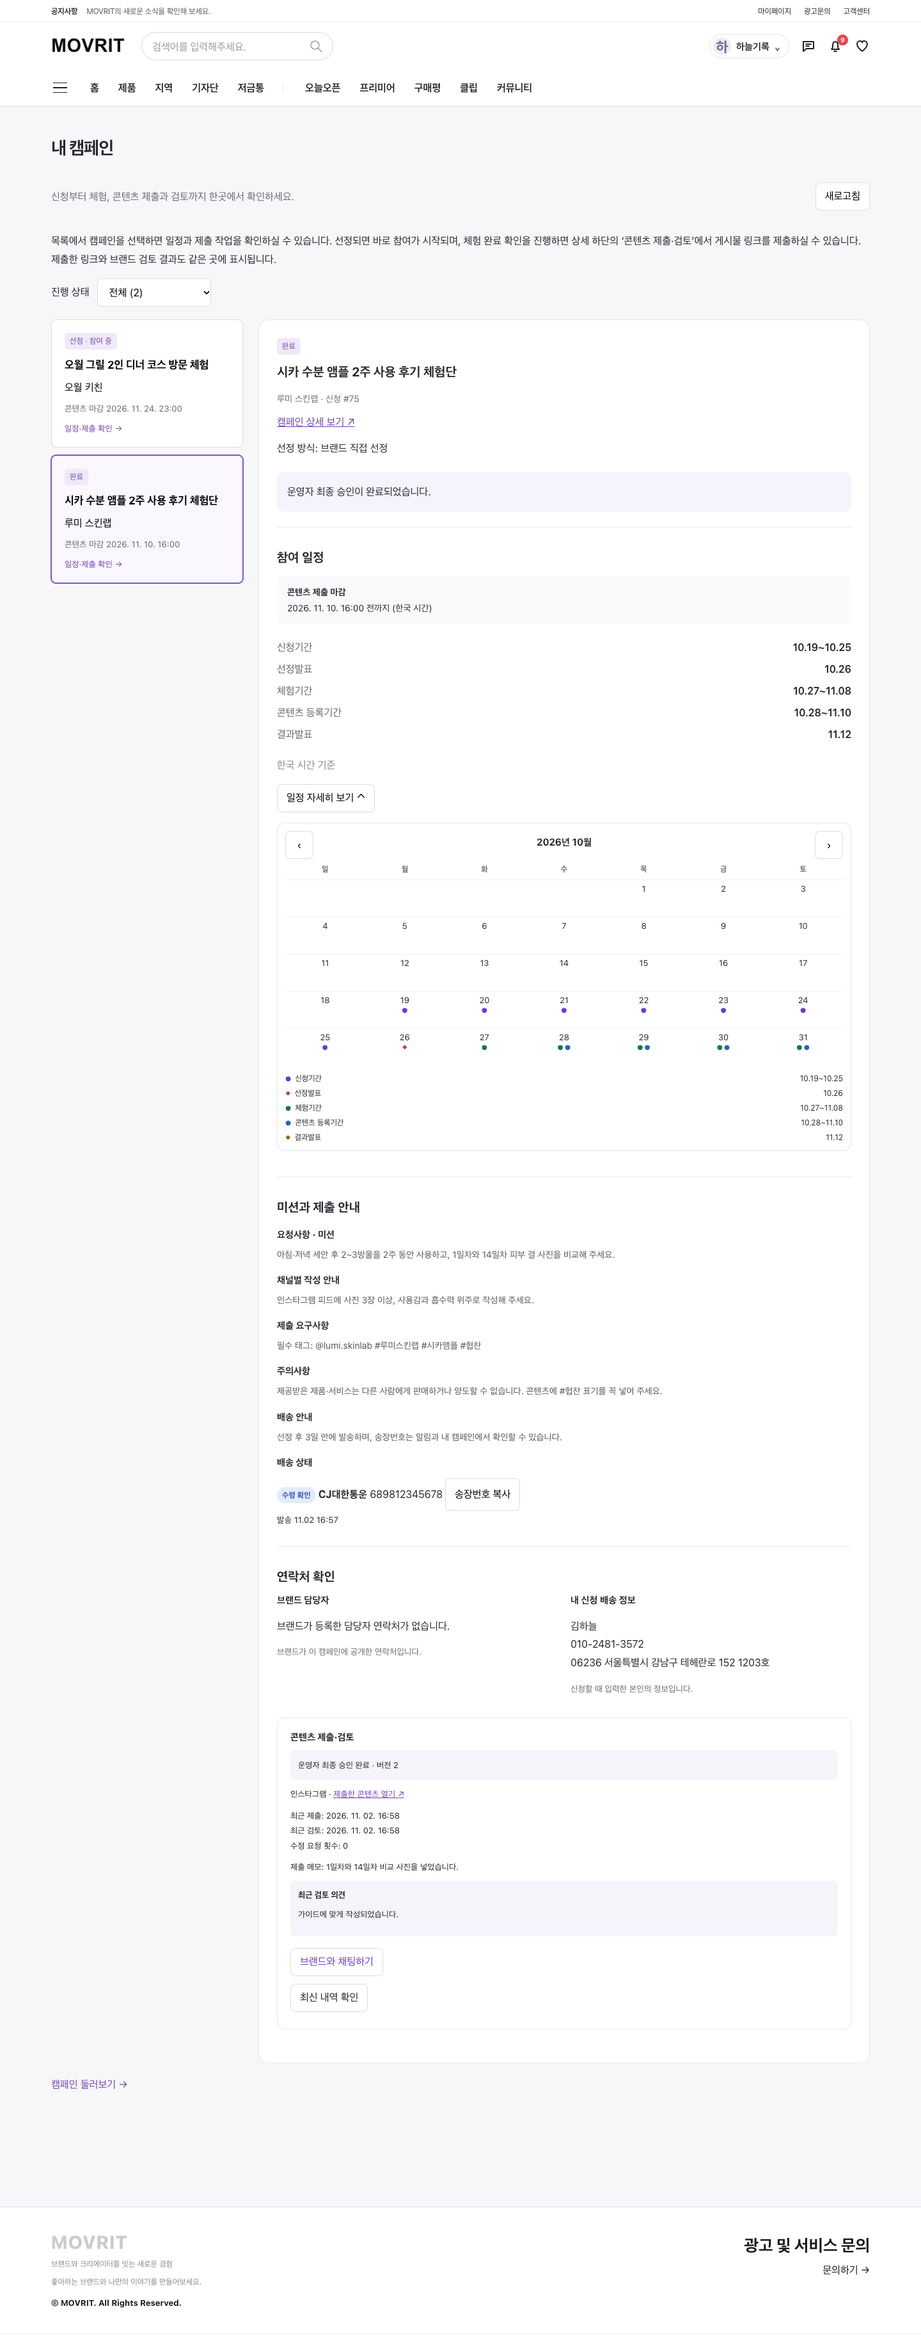
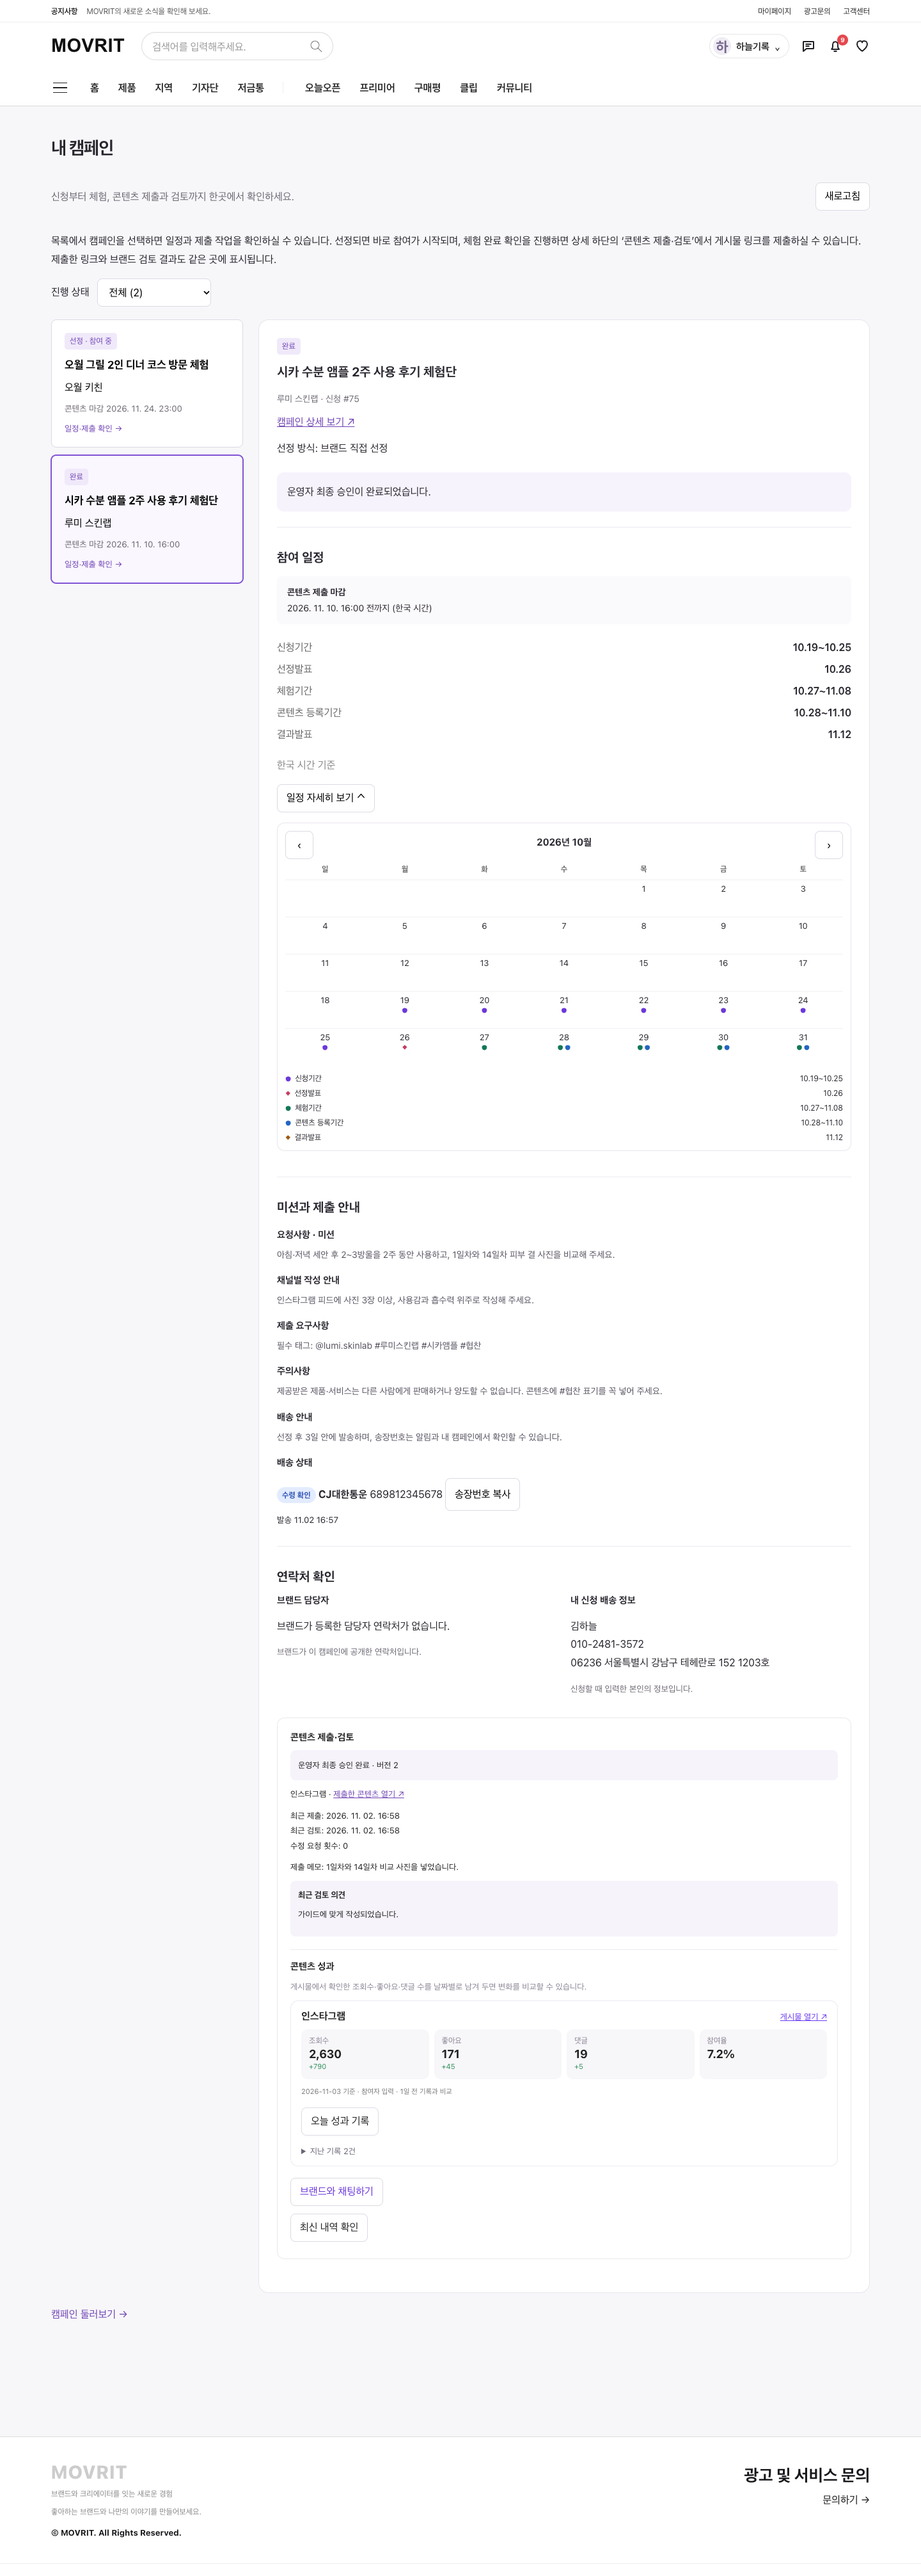
점검 스크립트·시연 데이터·화면 캡처·README 갱신
- ops-extras-check.mjs: 커뮤니티 가리기, 리포트 기간·엑셀, 콘텐츠 성과, 서버 검색·페이지(29개 항목)
- participation-check: 이전 점검 알림과 섞이지 않도록 이번 캠페인 이름으로 중복 알림 확인
- 시연 데이터에 콘텐츠 성과 기록 추가, 캡처 3장 추가(콘텐츠 성과·커뮤니티 관리·운영 리포트)

diff --git a/README.md b/README.md
@@ -24,7 +24,7 @@
 | 신청서 | 내 캠페인 |
 |---|---|
 | ![신청서](docs/screenshots/03-apply-form.png) | ![내 캠페인](docs/screenshots/04-my-campaign-workspace.png) |
-| 캠페인마다 다른 참여 방식·질문·동의 항목 | 일정표, 미션, 송장번호, 콘텐츠 제출을 한 화면에서 |
+| 캠페인마다 다른 참여 방식·질문·동의 항목 | 일정표, 미션, 송장번호, 콘텐츠 제출과 성과 기록을 한 화면에서 |
 
 | 마이페이지 | 채팅 | 커뮤니티 |
 |---|---|---|
@@ -47,12 +47,22 @@
 | ![배송 관리](docs/screenshots/14-seller-shipping.png) | ![환급](docs/screenshots/15-seller-paybacks.png) |
 | 택배사·송장번호 입력, 배송지 엑셀 내려받기 | 구매 인증 확인 후 환급 처리 |
 
+| 콘텐츠 성과 |
+|---|
+| ![콘텐츠 성과](docs/screenshots/16-seller-content-performance.png) |
+| 캠페인을 고르면 참여자 게시물의 최근 조회수·좋아요·댓글 합계와 평균 참여율을 보여 줍니다 |
+
 ### 운영자
 
 | 콘텐츠 최종 승인 | 신고·제재 |
 |---|---|
 | ![최종 승인](docs/screenshots/20-admin-content-reviews.png) | ![신고 처리](docs/screenshots/21-admin-moderation.png) |
 | 업체 검토가 끝난 콘텐츠만 모아 승인 | 신고 당시 내용, 같은 대상 신고 수, 기각·경고·가리기·이용 정지 |
+
+| 커뮤니티 관리 | 운영 리포트 |
+|---|---|
+| ![커뮤니티 관리](docs/screenshots/22-admin-community.png) | ![운영 리포트](docs/screenshots/23-admin-reports.png) |
+| 신고 없이도 글·댓글을 바로 가리고 다시 보이게 함 | 기간 선택, 날짜별 추이, 엑셀(요약·날짜별·상태별) |
 
 ### 모바일
 
@@ -77,17 +87,18 @@ npm run dev               # 기본 개발 서버 → 백엔드 8080
 
 ```
 src/
-  api/         서버 호출(기능별 파일, axios.js 한곳에서 토큰 갱신 처리)
+  api/         서버 호출(기능별 파일, axios.js 한곳에서 토큰 갱신, downloadFile.js로 엑셀 저장)
   features/    기능 단위 화면과 모델
-    discovery/        캠페인 탐색·상세·신청, 커뮤니티
+    discovery/        캠페인 탐색(서버 검색·페이지)·상세·신청, 커뮤니티
     membership/       마이페이지, 내 캠페인 작업 공간, 콘텐츠 제출
     business/         업체 화면(참여자·배송·환급·콘텐츠)
     sellerCampaigns/  캠페인 등록·수정·복제
     purchaseReview/   구매 정보·구매 인증·환급
     shipping/         송장·배송 상태
+    contentMetric/    게시물 성과 기록, 캠페인 성과 요약
     participation/    등급·패널티·방문 예약·평가·신고
     chat/             채팅방, 첨부, 검색, 입력 중 표시
-    admin/            운영자 화면 모델
+    admin/            운영자 화면 모델(커뮤니티 관리, 리포트 기간)
   pages/       경로에 바로 연결되는 화면
   components/  공통 레이아웃·헤더
 qa/
@@ -100,18 +111,18 @@ scripts/       node:test 단위 테스트
 
 ## 주요 경로
 
-경로는 91개이고, 첫 화면을 빼고는 지연 로딩합니다.
+경로는 92개이고, 첫 화면을 빼고는 지연 로딩합니다.
 
 | 대상 | 경로 |
 |---|---|
 | 참여자 | `/home`, `/category/:section`, `/campaign/:campaignId`, `/mypage`, `/mypage/campaigns`, `/messages`, `/community/:board`, `/settings` |
 | 업체 | `/seller/dashboard`, `/seller/campaigns`, `/seller/participants`, `/seller/shipping`, `/seller/paybacks`, `/seller/contents`, `/seller/messages` |
-| 운영자 | `/admin/dashboard`, `/admin/content-reviews`, `/admin/moderation`, `/admin/participation`, `/admin/campaign-participants`, `/admin/members` |
+| 운영자 | `/admin/dashboard`, `/admin/content-reviews`, `/admin/community`, `/admin/moderation`, `/admin/reports`, `/admin/participation`, `/admin/members` |
 
 ## 테스트와 점검
 
 ```bash
-npm test               # 단위 테스트 175개 (scripts/*.test.mjs)
+npm test               # 단위 테스트 188개 (scripts/*.test.mjs)
 npm run lint
 npm run format:check
 npm run build
@@ -122,6 +133,7 @@ npm run build
 - `e2e-flow.mjs`: 캠페인 등록 → 신청 → 선정 → 콘텐츠 제출 → 업체 검토 → 운영자 최종 승인
 - `qa-checks.mjs`: 동시 선정 시 정원 초과 여부, 다른 브랜드 권한, 신청 내용 보존
 - `purchase-review-check.mjs`, `shipping-check.mjs`, `participation-check.mjs`, `chat-extras-check.mjs`: 구매평, 배송, 패널티·예약·평가, 채팅 첨부·검색
+- `ops-extras-check.mjs`: 커뮤니티 가리기·다시 보이기, 리포트 기간·엑셀, 콘텐츠 성과 기록, 캠페인 서버 검색·페이지
 - `route-check.mjs`: 역할별로 전체 경로를 열어 오류·빈 화면 확인
 
 자세한 실행 방법은 [qa/e2e/README.md](qa/e2e/README.md)에 있습니다.

diff --git a/qa/e2e/README.md b/qa/e2e/README.md
@@ -24,6 +24,7 @@ Playwright는 설치된 Chrome(`channel: 'chrome'`)을 사용합니다.
 | —    | `qa-checks.mjs`         | 정원 경합(동시 선정), 다른 브랜드 권한, 배송 정보 중복, 신청 스냅샷 보존       |
 | —    | `route-check.mjs`       | 비회원·사용자·업체·운영자로 62개 경로를 열어 오류·빈 화면 확인                 |
 | —    | `admin-check.mjs`       | 관리자 화면 14개 실제 데이터 표시, 공지 작성→사용자 표시, 회원 정지·해제       |
+| —    | `ops-extras-check.mjs`  | 커뮤니티 운영자 가리기, 리포트 기간·엑셀, 콘텐츠 성과, 캠페인 서버 검색        |
 
 ## 2026-11-01 결과
 
